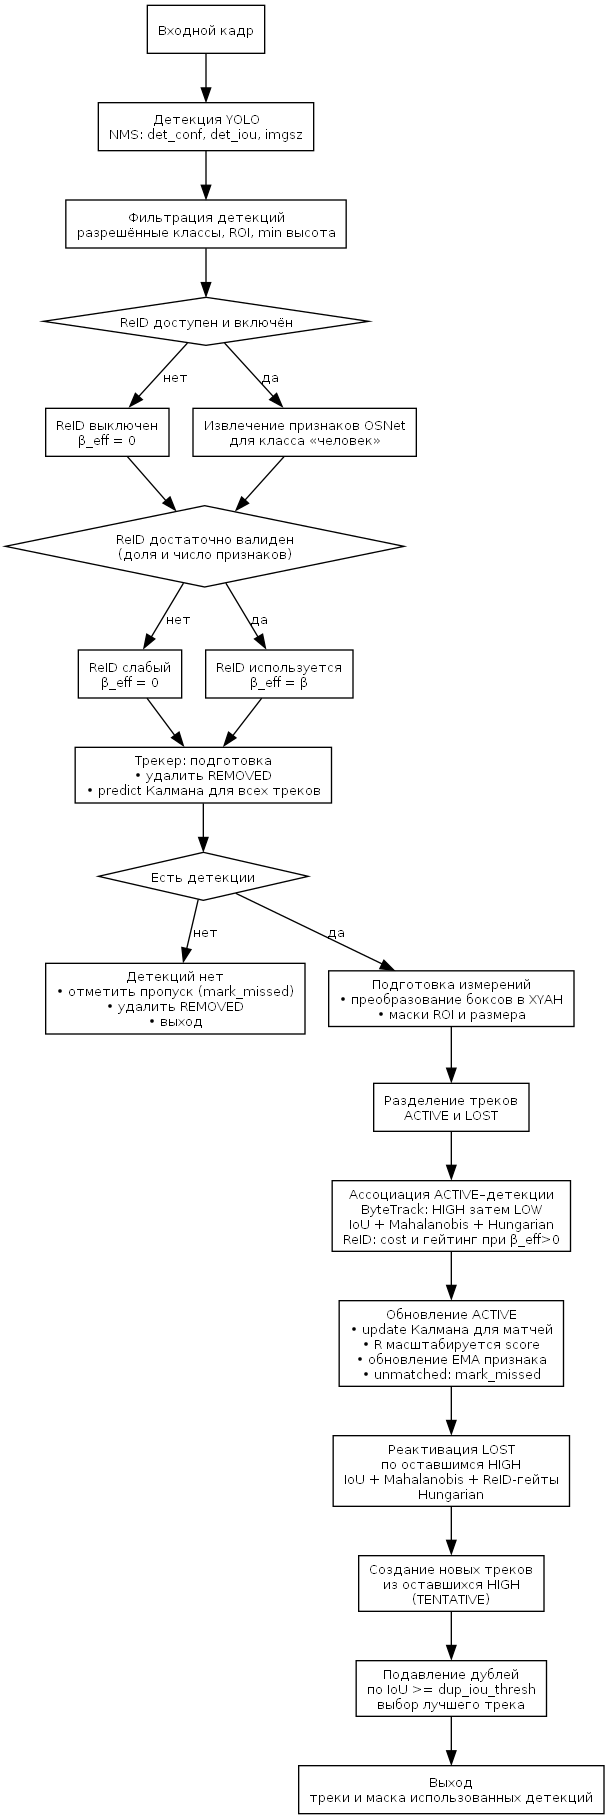
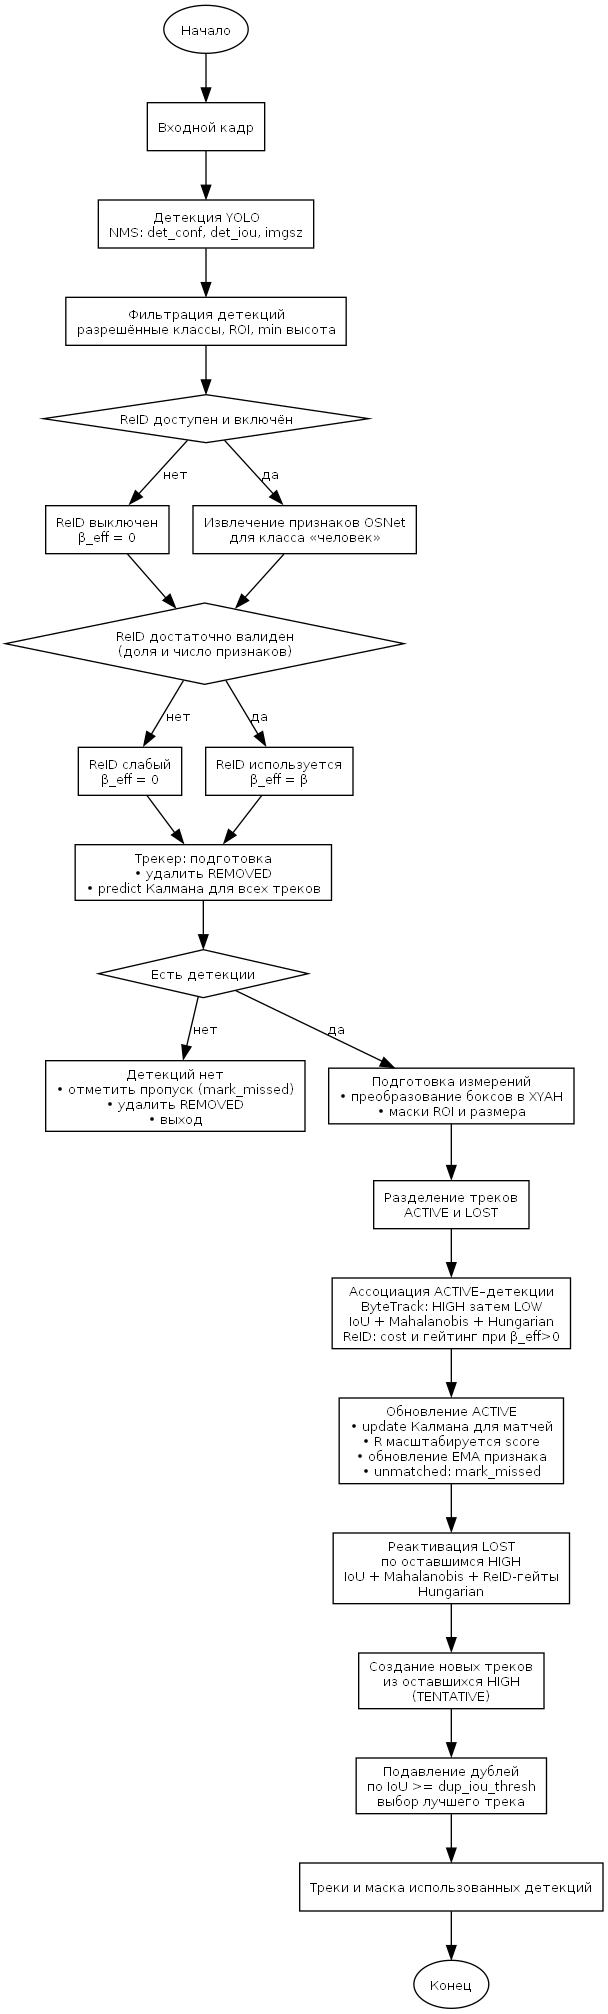
edit flowchart add init end

Changed region(s): [[0.0625, 0.0, 0.6875, 0.5849], [0.4688, 0.4926, 1.0, 1.0]]

diff --git a/mot_mvp_scripts/flowchart.py b/mot_mvp_scripts/flowchart.py
@@ -7,6 +7,7 @@ def build_flow():
     g.attr("edge", fontname="Times New Roman", fontsize="10")
 
     # --- Верхний уровень кадра ---
+    g.node("init", "Начало", shape="oval")
     g.node("frame", "Входной кадр", shape="box")
     g.node("yolo", "Детекция YOLO\nNMS: det_conf, det_iou, imgsz", shape="box")
     g.node("filter", "Фильтрация детекций\nразрешённые классы, ROI, min высота", shape="box")
@@ -37,9 +38,11 @@ def build_flow():
 
     g.node("dedup", "Подавление дублей\nпо IoU >= dup_iou_thresh\nвыбор лучшего трека", shape="box")
 
-    g.node("out", "Конец\nТреки и маска использованных детекций", shape="box")
+    g.node("out", "Треки и маска использованных детекций", shape="box")
+    g.node("end", "Конец", shape="oval")
 
     # --- Рёбра верхнего уровня ---
+    g.edge("init", "frame")
     g.edge("frame", "yolo")
     g.edge("yolo", "filter")
     g.edge("filter", "reid_on")
@@ -70,6 +73,7 @@ def build_flow():
     g.edge("react_lost", "spawn")
     g.edge("spawn", "dedup")
     g.edge("dedup", "out")
+    g.edge("out", "end")
 
     return g
 
